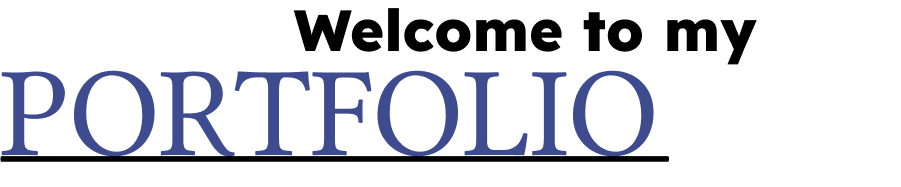
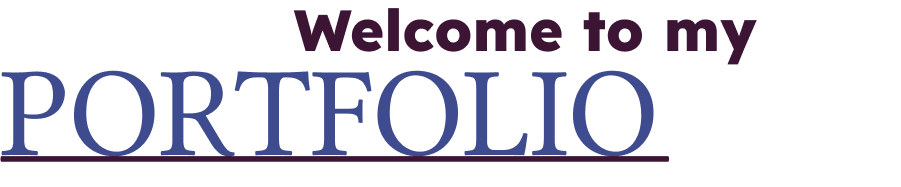
add: style to the header

Changed region(s): [[0.3108, 0.0535, 0.8391, 0.3476], [0.0, 0.8289, 0.7458, 0.8824]]

diff --git a/mariah-portfolio/src/components/top.tsx b/mariah-portfolio/src/components/top.tsx
@@ -5,6 +5,13 @@ export default function Top() {
   return (
     <div className="flex flex-col items-center justify-center w-full min-h-screen gap-8 px-4 animate-fade-in md:flex-row md:gap-16">
       <div className="w-full max-w-[200px] md:max-w-[280px]">
+        <div
+          className="absolute top-1/2 left-1/2 -translate-x-1/4 -translate-y-1/2 
+                   w-[300px] h-[300px] sm:w-[450px] sm:h-[450px]
+                   rounded-full opacity-40 blur-3xl pointer-events-none -z-10
+                   bg-[radial-gradient(circle,_#A6BCC9_0%,_transparent_99%)]"
+        />
+
         <img
           src="/mari_stick.png"
           alt="Mari's face"
@@ -12,12 +19,14 @@ export default function Top() {
         />
       </div>
 
-      <div className="flex flex-col items-center text-center md:items-start md:text-left gap-4">
-        <img
-          src="/title.png"
-          alt="welcome to my portfolio"
-          className="max-w-[280px] sm:w-[720px] md:max-w-none h-auto"
-        />
+      <div className="z-10 flex flex-col items-center md:items-start gap-2">
+        <span className="font-sans font-extrabold text-xl sm:text-2xl tracking-tight text-midnightviolet md:ml-2">
+          Welcome to my
+        </span>
+
+        <h1 className="font-serif text-5xl sm:text-7xl md:text-8xl tracking-normal text-[#27478B] uppercase border-b-4 border-midnightviolet/65 pb-1 leading-none">
+          Portfolio
+        </h1>
 
         <div className="flex flex-row items-center justify-center gap-1 w-full">
           <a

diff --git a/mariah-portfolio/src/app/layout.tsx b/mariah-portfolio/src/app/layout.tsx
@@ -1,4 +1,5 @@
 import type { Metadata } from "next";
+import { Inter, Playfair_Display } from "next/font/google";
 import { Geist, Geist_Mono } from "next/font/google";
 import "./globals.css";
 
@@ -12,8 +13,19 @@ const geistMono = Geist_Mono({
   subsets: ["latin"],
 });
 
+const inter = Inter({ 
+  subsets: ["latin"],
+  variable: "--font-inter" 
+});
+
+
+const playfair = Playfair_Display({ 
+  subsets: ["latin"],
+  variable: "--font-playfair" 
+});
+
 export const metadata: Metadata = {
-  title: "Create Next App",
+  title: "Mariah's Portfolio",
   description: "Generated by create next app",
 };
 

diff --git a/mariah-portfolio/src/app/globals.css b/mariah-portfolio/src/app/globals.css
@@ -34,6 +34,8 @@
   --color-midnightviolet: var(--midnightviolet);
   --font-sans: var(--font-geist-sans);
   --font-mono: var(--font-geist-mono);
+  --font-inter: var(--font-inter);
+  --font-playfair: var(--font-playfair);
 }
 
 @media (prefers-color-scheme: dark) {
@@ -43,7 +45,7 @@
     --seashell: #FFF4EB;
     --wheat: #F6E0B6;
     --powderblue: #A6BCC9;
-    --frenchblue: #3E4B8E;
+    --frenchblue: #27478B;
     --midnightviolet: #3D1534;
   }
 }
@@ -57,5 +59,5 @@ body {
   color: var(--frenchblue);
   color: var(--midnightviolet);
   
-  font-family: Arial, Helvetica, sans-serif;
+  font-family: Arial, Helvetica, sans-serif, inter, playfair;
 }